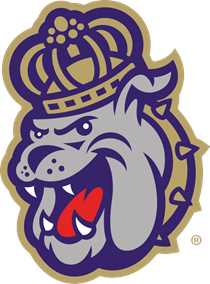
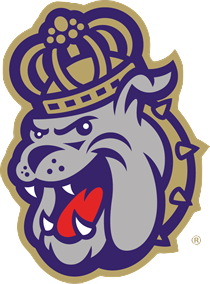
don't draw detection boxes. use new duke dog image. apply duke dog filter first then caman filter

diff --git a/js/index.js b/js/index.js
@@ -16,8 +16,8 @@ Dropzone.options.myAwesomeDropzone = {
 }
 
 const filters = [
-  camanFilter,
-  faceReplaceFilter
+  faceReplaceFilter,
+  camanFilter
 ]
 
 function initDropzone () {
@@ -58,7 +58,6 @@ async function camanFilter () {
 
 async function faceReplaceFilter () {
   const detections = await faceapi.detectAllFaces(canvas)
-  faceapi.drawDetection(canvas, detections, { withScore: false })
   faces = detections.map(d => d.box)
   faces.forEach(drawDukeDog)
 }
